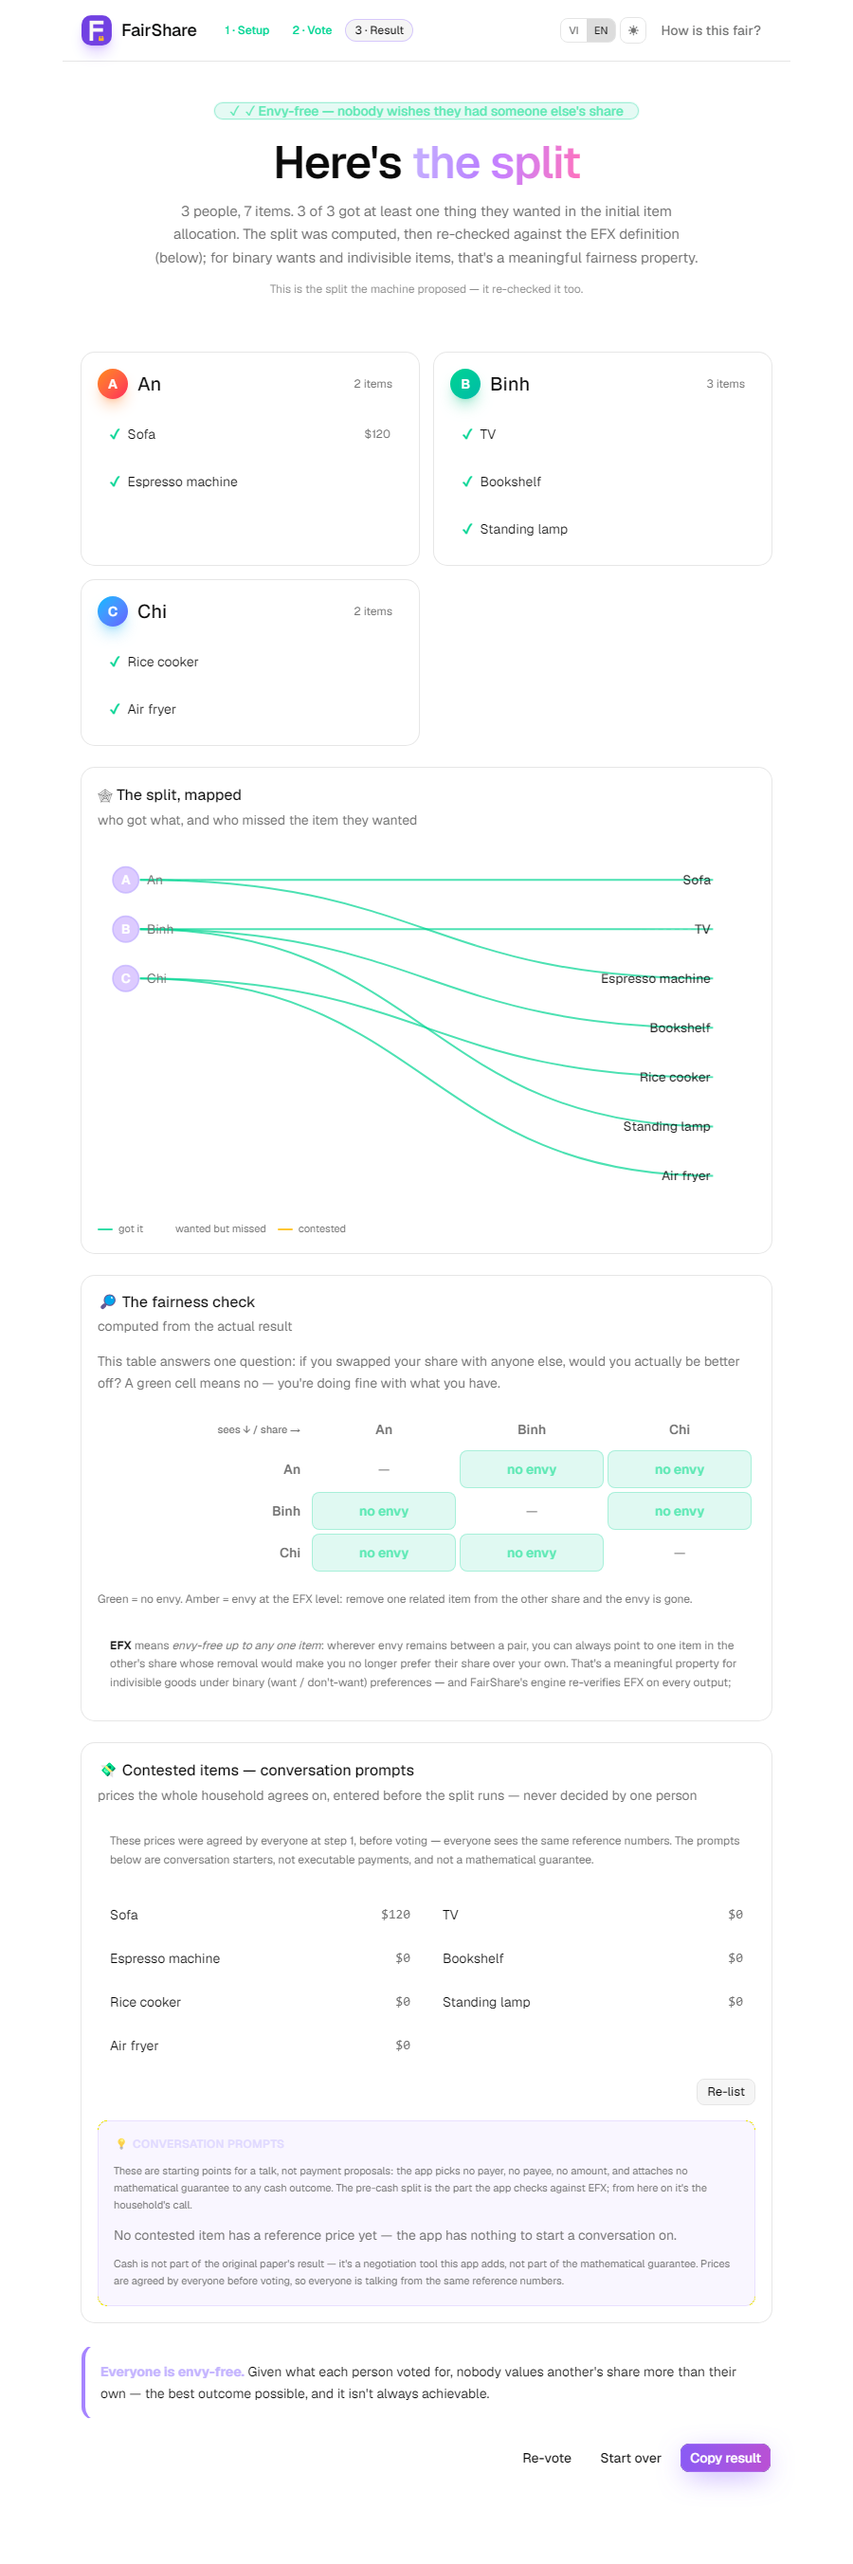
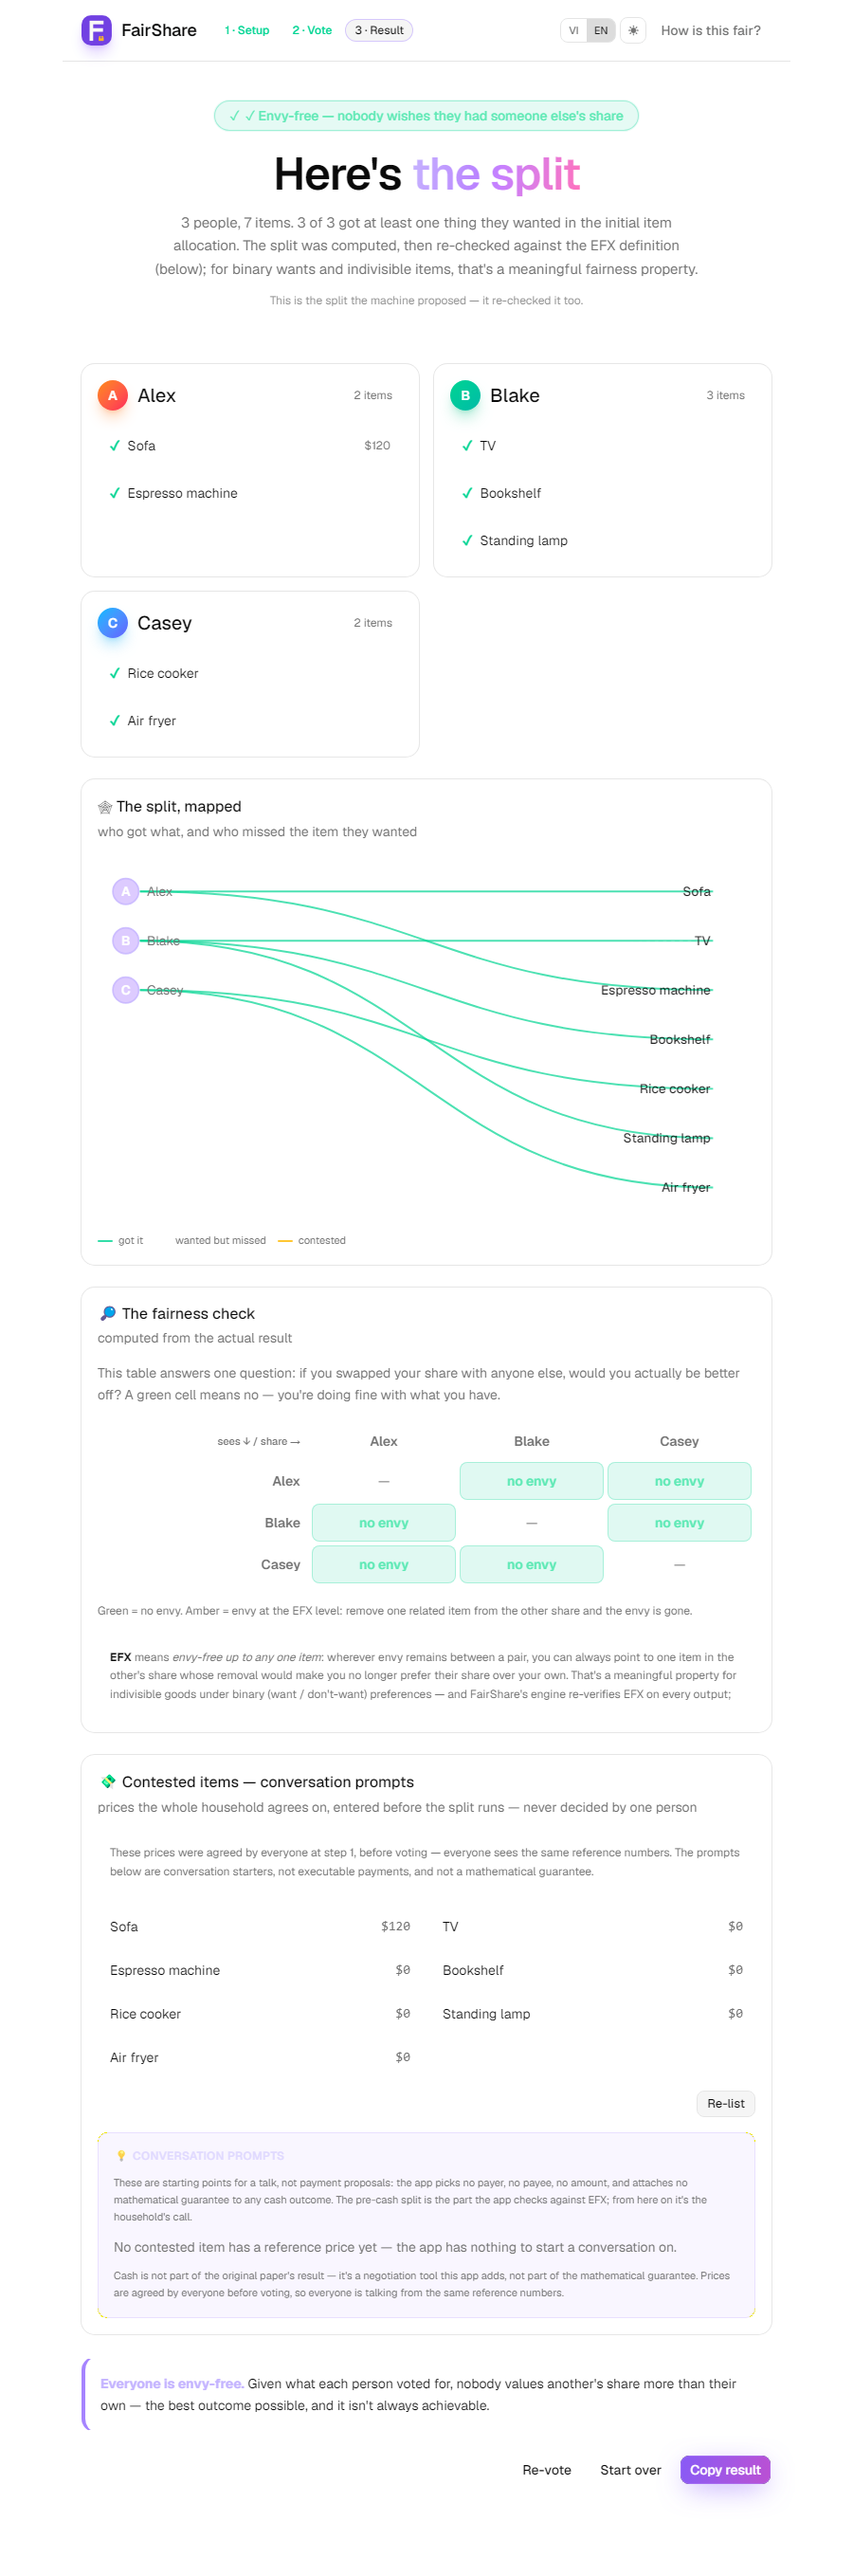
feat: localize preset data and polish mobile results

diff --git a/src/App.tsx b/src/App.tsx
@@ -37,53 +37,46 @@ const AVATAR = [
   "bg-gradient-to-br from-indigo-400 to-purple-600 shadow-indigo-500/30",
 ]
 
-const PRESETS = {
-  roommates: {
-    people: ["An", "Binh", "Chi"],
-    items: [
-      "Sofa",
-      "TV",
-      "Espresso machine",
-      "Bookshelf",
-      "Rice cooker",
-      "Standing lamp",
-      "Air fryer",
-    ],
+type PresetKey = "roommates" | "startup" | "trip" | "club"
+
+const PRESETS: Record<Lang, Record<PresetKey, { people: string[]; items: string[] }>> = {
+  en: {
+    roommates: {
+      people: ["Alex", "Blake", "Casey"],
+      items: ["Sofa", "TV", "Espresso machine", "Bookshelf", "Rice cooker", "Standing lamp", "Air fryer"],
+    },
+    startup: {
+      people: ["Founder A", "Founder B", "Founder C"],
+      items: ["Domain name", "GitHub org", "Customer list", "Server credits", "Logo files", "Slack archive"],
+    },
+    trip: {
+      people: ["Maya", "Lana", "Hugo"],
+      items: ["Tent", "Stove", "First-aid kit", "Cooler", "Power bank", "Binoculars"],
+    },
+    club: {
+      people: ["Alex", "Priya", "Hana"],
+      items: ["Speaker", "Projector", "Banner stand", "Mic set", "Trophies", "Camera"],
+    },
   },
-  startup: {
-    people: ["Founder A", "Founder B", "Founder C"],
-    items: [
-      "Domain name",
-      "GitHub org",
-      "Customer list",
-      "Server credits",
-      "Logo files",
-      "Slack archive",
-    ],
+  vi: {
+    roommates: {
+      people: ["An", "Bình", "Chi"],
+      items: ["Ghế sofa", "TV", "Máy pha espresso", "Kệ sách", "Nồi cơm điện", "Đèn đứng", "Nồi chiên không dầu"],
+    },
+    startup: {
+      people: ["Nhà sáng lập A", "Nhà sáng lập B", "Nhà sáng lập C"],
+      items: ["Tên miền", "Tổ chức GitHub", "Danh sách khách hàng", "Tín dụng máy chủ", "Tệp logo", "Lưu trữ Slack"],
+    },
+    trip: {
+      people: ["Mai", "Lan", "Huy"],
+      items: ["Lều", "Bếp dã ngoại", "Bộ sơ cứu", "Thùng giữ lạnh", "Pin dự phòng", "Ống nhòm"],
+    },
+    club: {
+      people: ["Trung", "Phương", "Hà"],
+      items: ["Loa", "Máy chiếu", "Giá treo banner", "Bộ mic", "Cúp", "Máy ảnh"],
+    },
   },
-  trip: {
-    people: ["Mai", "Lan", "Huy"],
-    items: [
-      "Tent",
-      "Stove",
-      "First-aid kit",
-      "Cooler",
-      "Power bank",
-      "Binoculars",
-    ],
-  },
-  club: {
-    people: ["Trung", "Phương", "Hà"],
-    items: [
-      "Speaker",
-      "Projector",
-      "Banner stand",
-      "Mic set",
-      "Trophies",
-      "Camera",
-    ],
-  },
-} as const
+}
 
 type Screen = "setup" | "vote" | "results"
 type Theme = "light" | "dark"
@@ -253,8 +246,8 @@ export default function App() {
             removePerson={(i) => setPeople(people.filter((_, idx) => idx !== i))}
             removeItem={(i) => setItems(items.filter((_, idx) => idx !== i))}
             loadPreset={(p) => {
-              setPeople([...PRESETS[p].people])
-              setItems([...PRESETS[p].items])
+              setPeople([...PRESETS[lang][p].people])
+              setItems([...PRESETS[lang][p].items])
             }}
             canStart={canStart}
             prices={prices}
@@ -442,7 +435,7 @@ function Setup(props: {
   addItem: () => void
   removePerson: (i: number) => void
   removeItem: (i: number) => void
-  loadPreset: (p: keyof typeof PRESETS) => void
+  loadPreset: (p: PresetKey) => void
   canStart: boolean
   prices: number[]
   setPrices: (n: number[]) => void
@@ -846,7 +839,7 @@ function Results({
       <div className="py-8 text-center">
         <Badge
           className={
-            "mx-auto mb-5 max-w-full gap-1.5 px-4 py-1.5 text-sm ring-1 ring-inset whitespace-normal text-center " +
+            "mx-auto mb-5 h-auto min-h-5 max-w-full gap-1.5 px-4 py-1.5 text-sm ring-1 ring-inset whitespace-normal text-center " +
             (v.isEF
               ? "bg-emerald-400/10 text-emerald-300 ring-emerald-400/30 hover:bg-emerald-400/10"
               : v.isEFX
